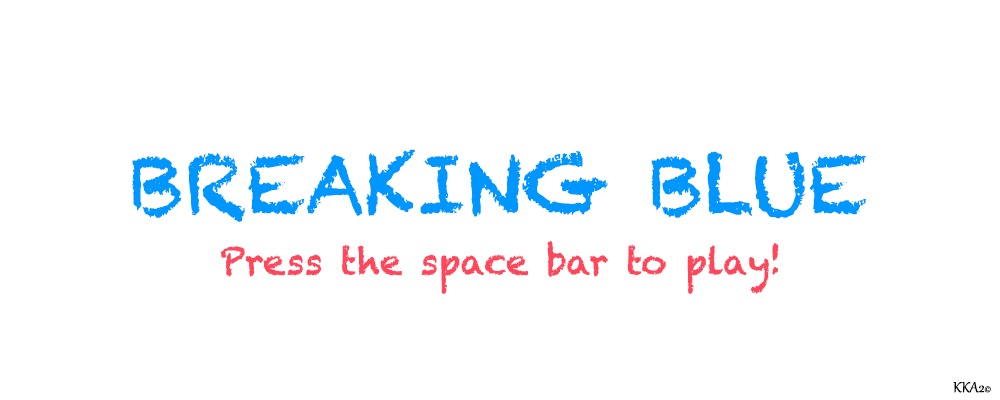
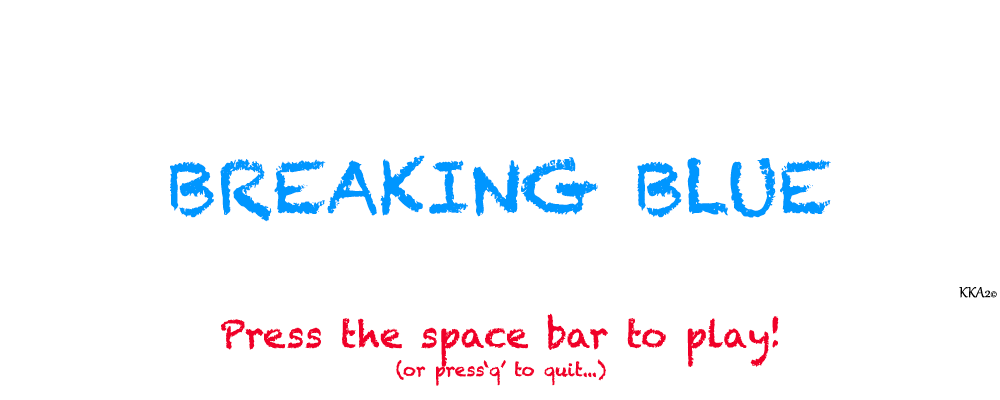
update all transition foreground images

diff --git a/project/Transition.cpp b/project/Transition.cpp
@@ -34,7 +34,7 @@ void Transition::display() {
 
 void Transition::loadMedia() {
     // set up media from Level class
-    Level::setBackground("imgs/bg/lvl2.png");
+    Level::setBackground("imgs/bg/transition.png");
     Level::setMusic(Mix_LoadMUS("sound/techno.wav")); // music for menu screen
 
     // load all foreground textures
